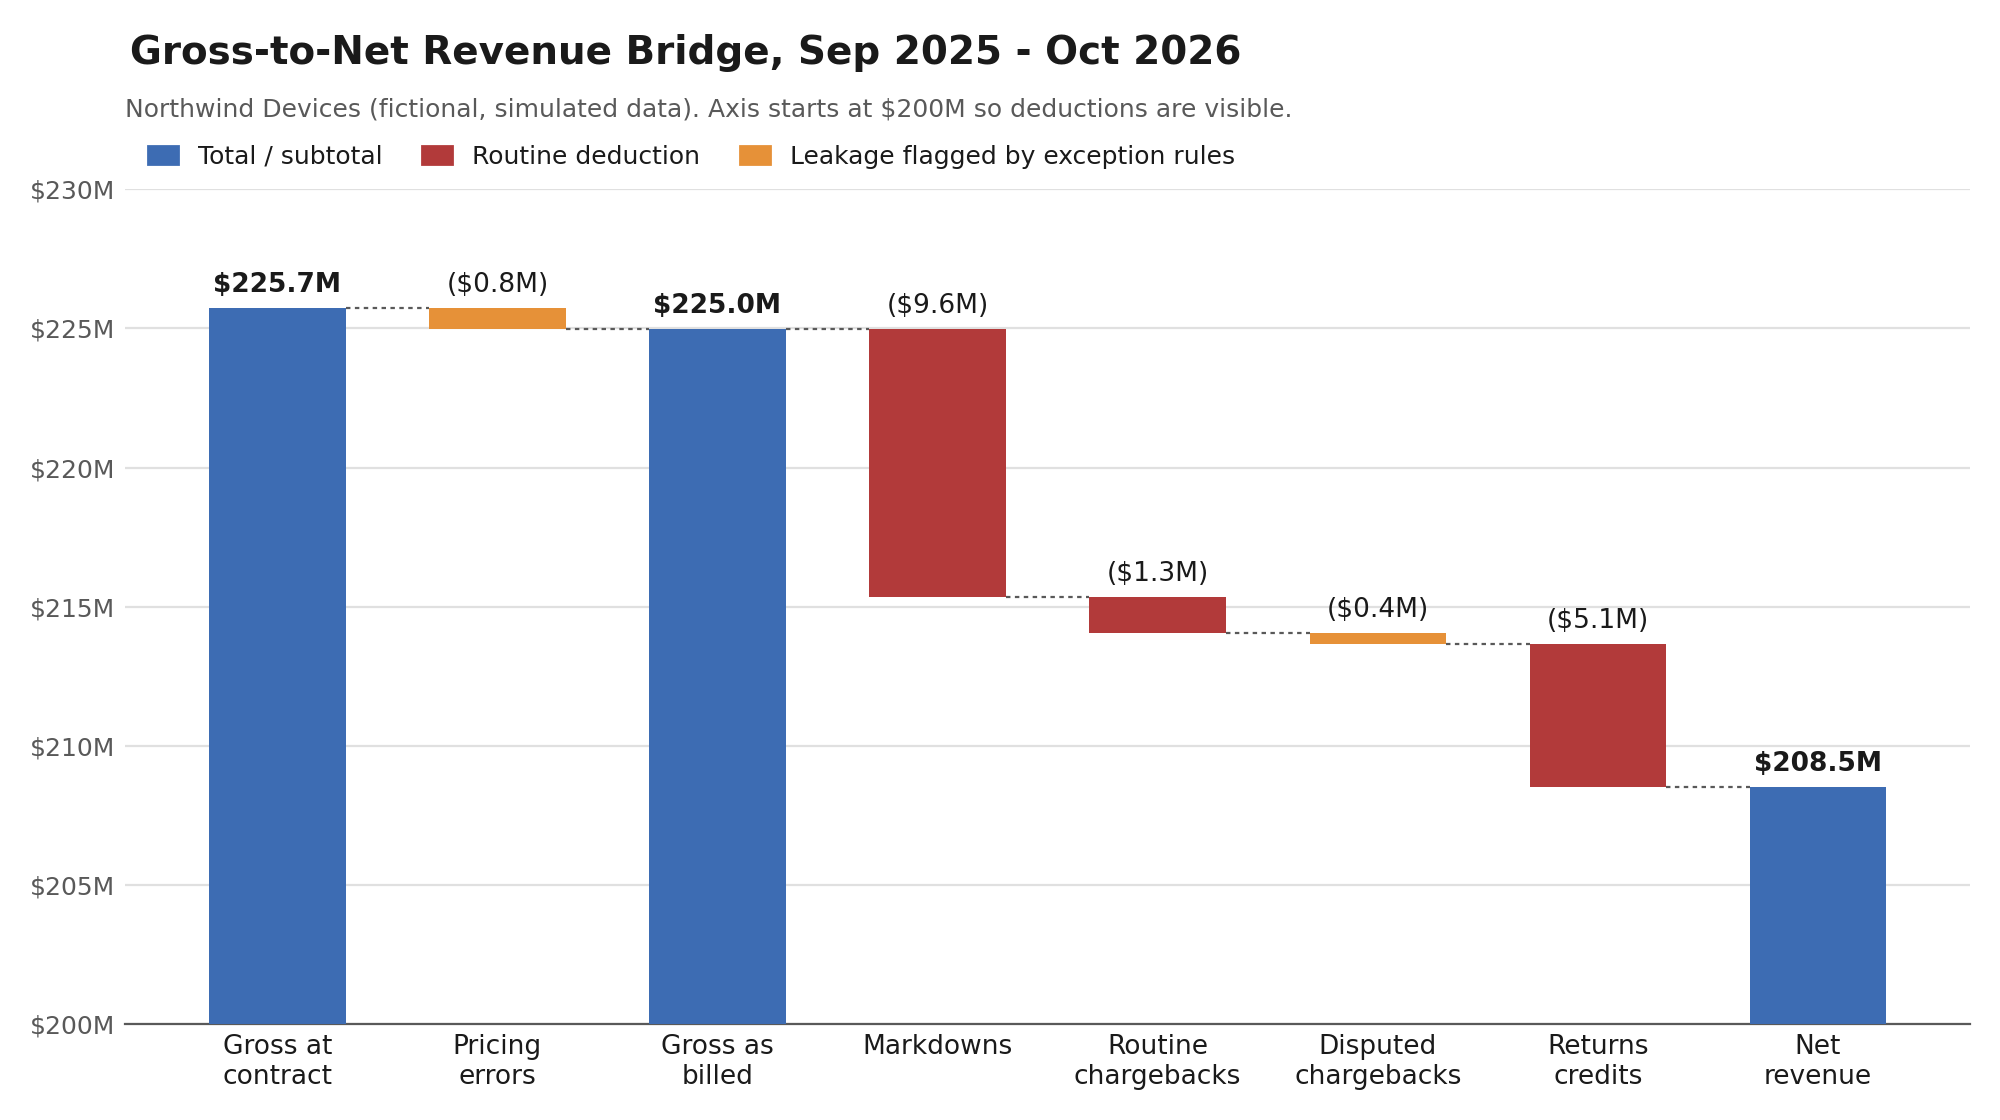
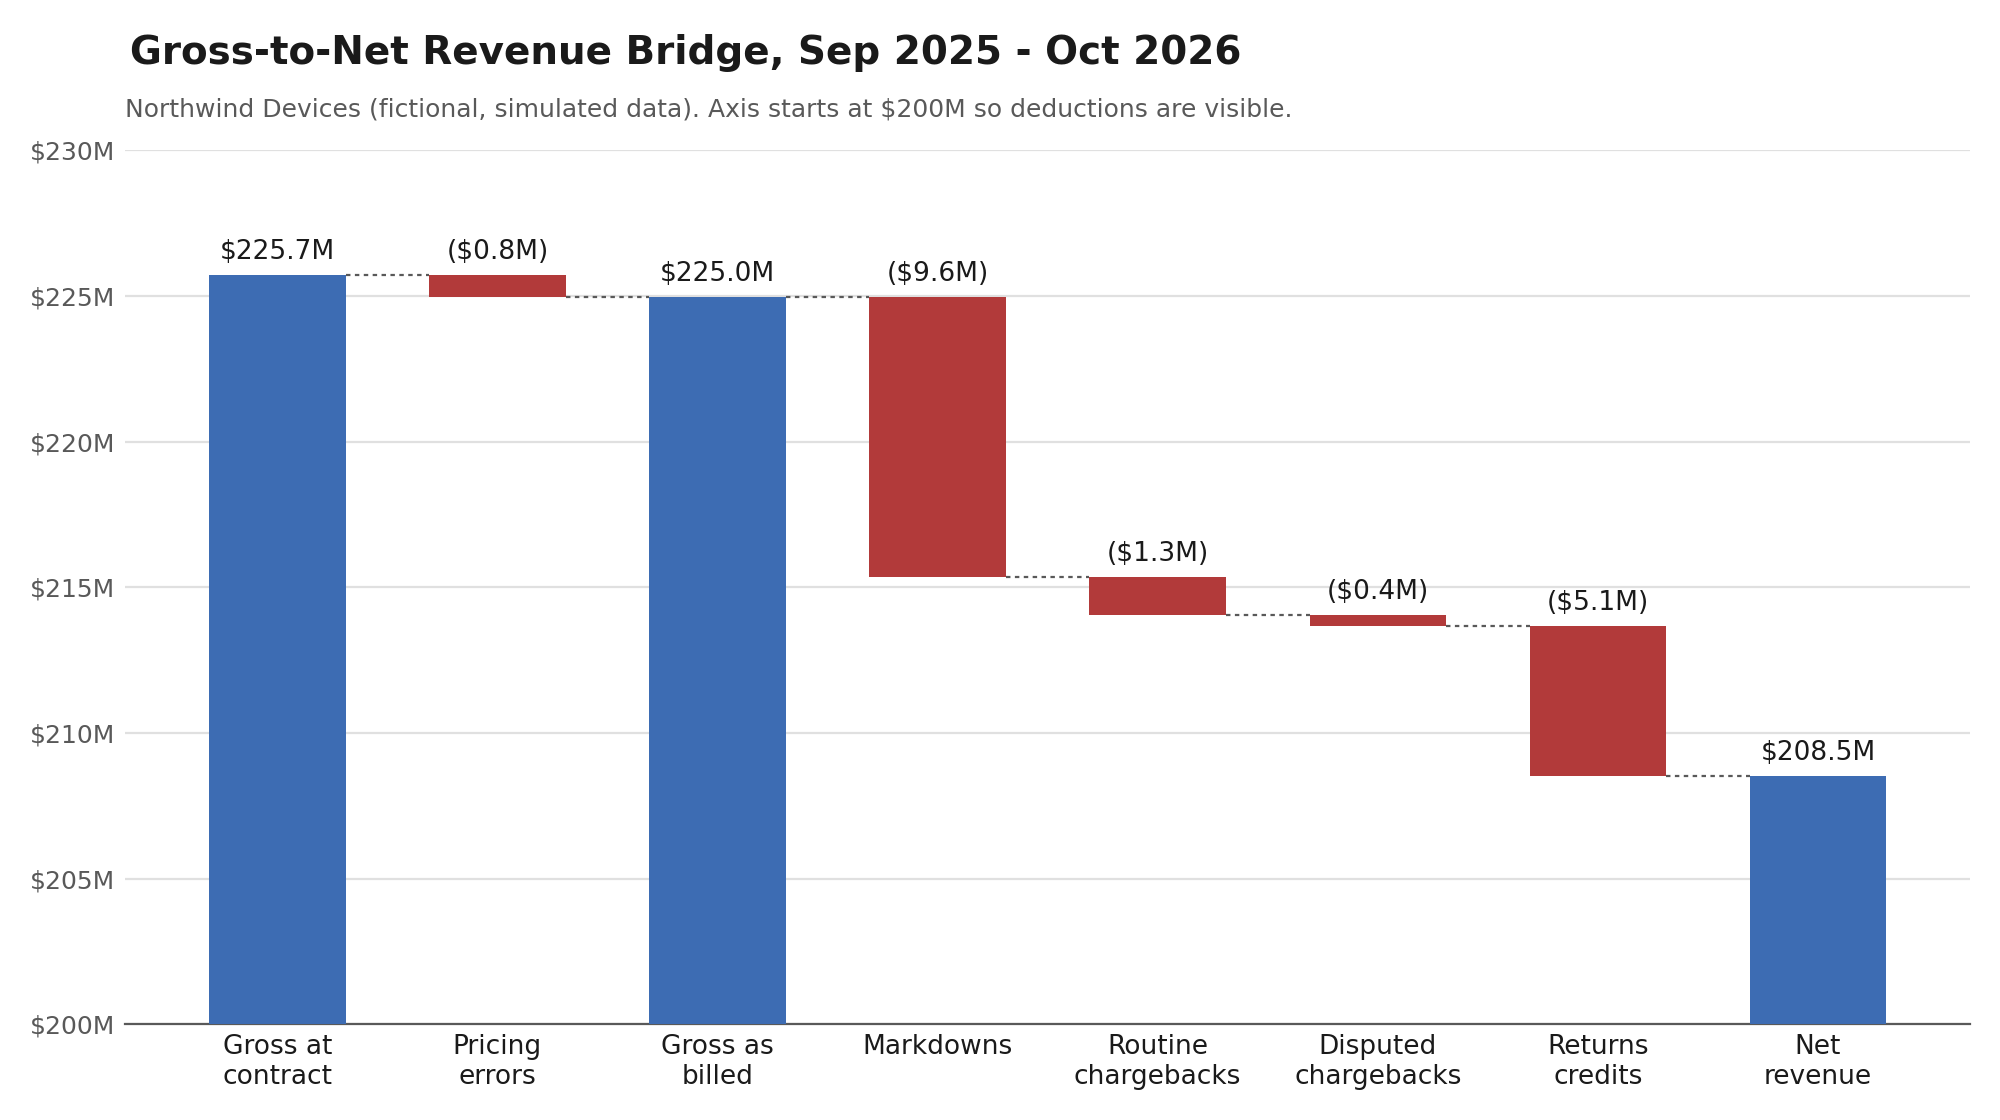
Match waterfall chart to dashboard; sign off AI draft reviews

diff --git a/src/06_make_charts.py b/src/06_make_charts.py
@@ -21,8 +21,8 @@ VIEWS_SQL = PROJECT_ROOT / "sql" / "02_exceptions.sql"
 OUT_PATH = PROJECT_ROOT / "docs" / "gross_to_net_waterfall.png"
 
 TOTAL_COLOR = "#3D6CB3"     # blue: totals and subtotals
-DEDUCT_COLOR = "#B23A3A"    # red: routine deductions
-LEAK_COLOR = "#E69138"      # orange: leakage found by the exception rules
+DEDUCT_COLOR = "#B23A3A"    # red: deductions
+LEAK_COLOR = DEDUCT_COLOR   # same red as other deductions, to match the dashboard chart
 INK, MUTED, GRID = "#1A1A1A", "#595959", "#E0E0E0"
 AXIS_FLOOR = 200e6          # bridge charts start above zero so deductions are visible
 
@@ -81,7 +81,7 @@ def main():
         top = bottom + height
         tops.append(running)
         ax.text(i, top + 0.35e6, money(value), ha="center", va="bottom",
-                fontsize=9.5, color=INK, fontweight="bold" if kind == "total" else "normal")
+                fontsize=9.5, color=INK)
 
     # dashed connectors between bars
     for i in range(len(steps) - 1):
@@ -100,12 +100,7 @@ def main():
     fig.suptitle("Gross-to-Net Revenue Bridge, Sep 2025 - Oct 2026", x=0.065, ha="left",
                  fontsize=14, fontweight="bold", color=INK, y=0.97)
     ax.set_title("Northwind Devices (fictional, simulated data). Axis starts at $200M so deductions are visible.",
-                 loc="left", fontsize=9, color=MUTED, pad=26)
-    handles = [plt.Rectangle((0, 0), 1, 1, color=c) for c in (TOTAL_COLOR, DEDUCT_COLOR, LEAK_COLOR)]
-    ax.legend(handles, ["Total / subtotal", "Routine deduction", "Leakage flagged by exception rules"],
-              loc="upper left", bbox_to_anchor=(0, 1.08), ncol=3, frameon=False, fontsize=9,
-              labelcolor=INK, handlelength=1.2, columnspacing=1.6)
-
+                 loc="left", fontsize=9, color=MUTED, pad=12)
     fig.tight_layout()
     fig.savefig(OUT_PATH, facecolor="white")
     print(f"Saved {OUT_PATH.relative_to(PROJECT_ROOT)}")
